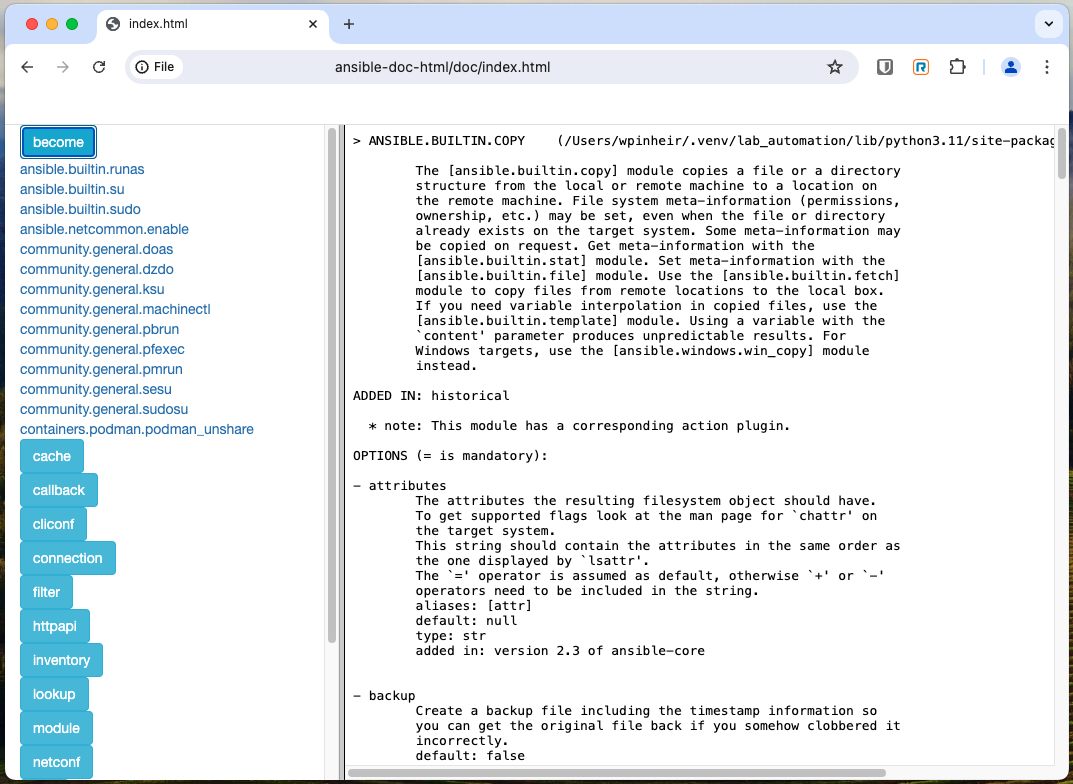
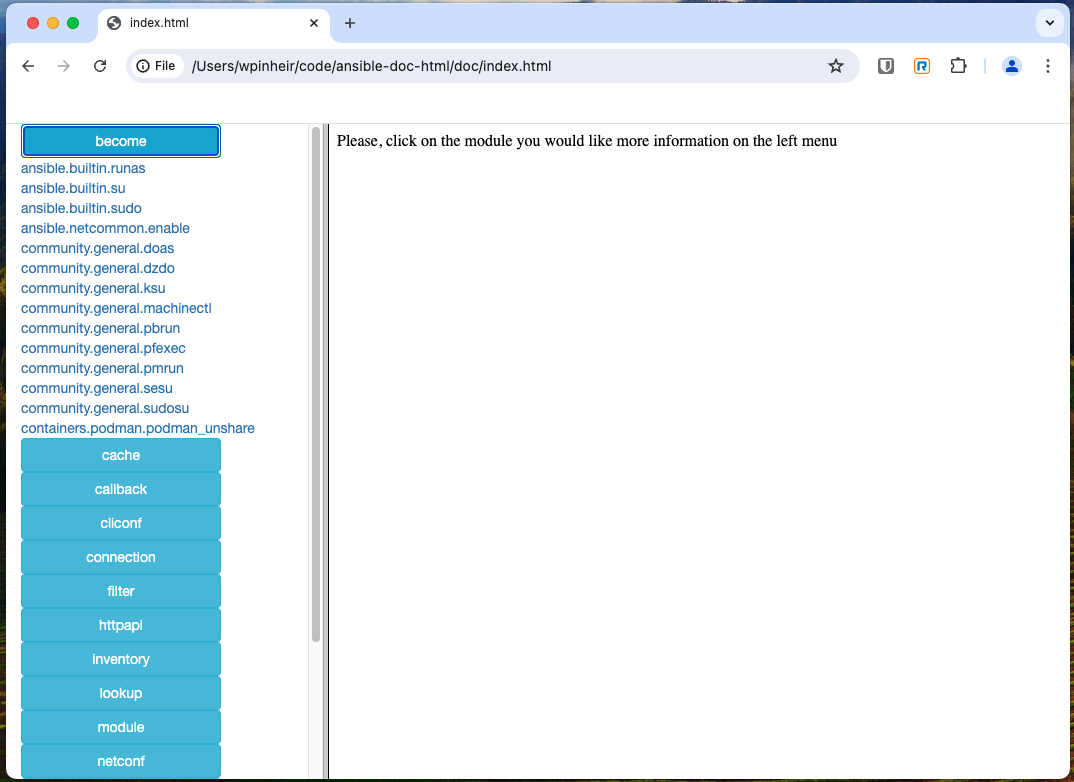
[ENHANCEMENT] Fixing the button width
* fixing the buttons
* pics updated

diff --git a/README.md b/README.md
@@ -17,7 +17,7 @@ A directory named `doc` will be created, with a bunch of files, but the one that
 
 ![become sub menu](assets/become_sub_menu.png)
 
-![ansible.builtin.copy module](assets/copy_module.png)
+![ansible.builtin.copy module](assets/dzdo.png)
 
 I hope you enjoy it, and please, feel free to submit issues to fix and/or improve it. I'll be more than glad to help!
 
